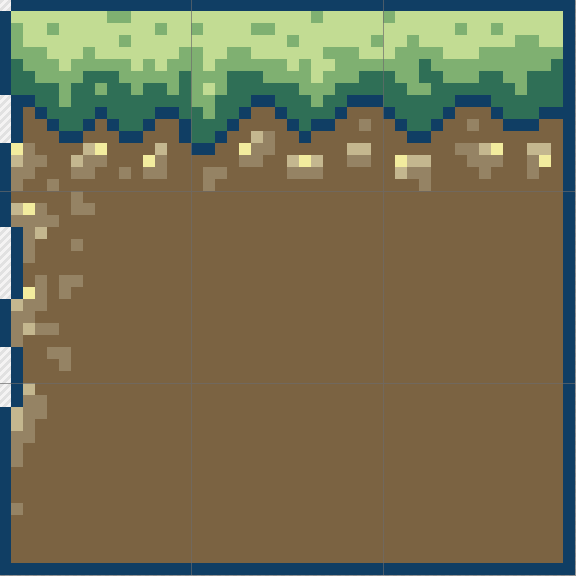
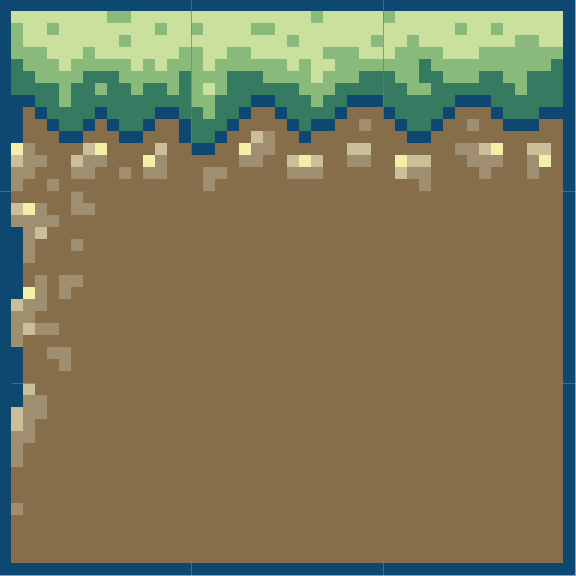
added camera, background, fixed images

diff --git a/main.py b/main.py
@@ -3,12 +3,16 @@ import Player
 # import Tile
 import Find
 import Box
+import Camera
 pygame.init()
 
 
-#rozmiary mapy wysokosc 800 szerokosc 1800
+#rozmiary mapy wysokosc 600 szerokosc 2400, kamera 600 x 800
+Tiles = []
 win = pygame.display.set_mode((800, 600))
 pygame.display.set_caption("Pierwsza gra")
+#make and display background in pygame from file
+
 x = 0
 y = 40
 szerokosc = 50
@@ -16,6 +20,7 @@ wysokosc = 50
 krok = 20
 run = True
 player = Player.Player(0,50)
+camera = Camera.Camera(player)
 rect1 = pygame.Rect(0,500,800,100)
 
 # lista zawierajaca znajdzki/monety
@@ -23,11 +28,14 @@ monets = [Find.Find(40, 450), Find.Find(150, 450), Find.Find(260, 450), Find.Fin
 
 # lista zawierajaca bloki
 blocks = [Box.Box(0+50*i, 500) for i in range(25)]
+for i in range(25):
+    blocks.append(Box.Box(0+50*i, 550))
 blocks.append(Box.Box(300, 450))
-blocks.append(Box.Box(250, 300))
+blocks.append(Box.Box(250, 350))
 while run:
-    # czyszczenie ekranu
-    win.fill((0, 0, 0))
+    background = pygame.image.load("assets/Background.png")
+    background = pygame.transform.scale(background, (800, 600))
+    win.blit(background, (0, 0))
     # zamkniecie gry
     for event in pygame.event.get():
         if event.type == pygame.QUIT:
@@ -37,11 +45,11 @@ while run:
 
     # dodawanie obiektow do mapy
     a = player.update(blocks)
-    win.blit(player.image, player.rect)
+   
     for moneta in monets:
-        win.blit(moneta.image, moneta.rect)
+        win.blit(moneta.image, (moneta.rect.x - camera.offset.x, moneta.rect.y - camera.offset.y))
     for block in blocks:
-        win.blit(block.image, block.rect)
+        win.blit(block.image, (block.rect.x - camera.offset.x, block.rect.y - camera.offset.y))
 
     # zbieranie monet
     for moneta in monets:
@@ -51,14 +59,13 @@ while run:
 
     # wyswietlacz punktow
     font = pygame.font.Font('freesansbold.ttf', 36)
-    points = font.render(str(player.points), True, (0, 255, 0), (0, 0, 128))
+    points = font.render(str(player.points), True, (0, 0, 0), None)
     pointsRect = points.get_rect()
     pointsRect.x=0
     pointsRect.y=0
+    camera.scroll()
+    win.blit(player.image, (player.rect.x-camera.offset.x, player.rect.y-camera.offset.y))
     win.blit(points, pointsRect)
-
-
-    # pygame.draw.rect(win, (0, 255, 0), (x, y, szerokosc, wysokosc))
 
     # odświeżenie ekranu
     pygame.display.update()

diff --git a/Camera.py b/Camera.py
@@ -1,0 +1,20 @@
+import pygame
+vec = pygame.math.Vector2
+
+class Camera():
+    def __init__(self,player):
+        self.player = player
+        self.offset = vec(0,0)
+        self.offset_float = vec(0,0)
+        self.DISPLAY_W = 800
+        self.DISPLAY_H = 600
+        self.LEFT_BORDER = 0
+        self.RIGHT_BORDER = 2400
+        self.CENTER = vec(-self.DISPLAY_W/2, -self.DISPLAY_H)
+    def scroll(self):
+        self.offset_float.x += (self.player.rect.x - self.offset_float.x + self.CENTER.x)
+        self.offset_float.x += (self.player.rect.y - self.offset_float.y + self.CENTER.y)
+        self.offset.x = int(self.offset_float.x)
+        self.offset.y = int(self.offset_float.y)
+        self.offset.x = max(self.LEFT_BORDER, self.offset.x)
+        self.offset.x = min(self.RIGHT_BORDER - self.DISPLAY_W, self.offset.x)

diff --git a/Player.py b/Player.py
@@ -6,7 +6,7 @@ class Player():
     def __init__(self, x, y):
         self.v_y = 0
         self.v_x = 0
-        img = pygame.image.load('assets/Super-Platformer-Royalty-Free-Game-Art-Set.png')
+        img = pygame.image.load('assets/player-right.png')
         self.image = pygame.transform.scale(img, (50,50))
         self.rect = self.image.get_rect()
         self.rect.x=x
@@ -26,8 +26,10 @@ class Player():
             self.jump=False
         if key[pygame.K_LEFT]:
             dx-=10
+            self.image = pygame.transform.scale(pygame.image.load('assets/player-left.png'), (50,50))
         if key[pygame.K_RIGHT]:
             dx+=10
+            self.image = pygame.transform.scale(pygame.image.load('assets/player-right.png'), (50,50))
 
         # grawitacja
         if self.v_y<=20:

diff --git a/Find.py b/Find.py
@@ -3,7 +3,7 @@ class Find:
     def __init__(self, x, y):
         self.points=5
         img = pygame.image.load('assets/png-clipart-platinum-design-bitcoin-bitcoin-platinum-coins-thumbnail.png')
-        self.image = pygame.transform.scale(img, (20, 20))
+        self.image = pygame.transform.scale(img, (50, 50))
         self.rect = self.image.get_rect()
         self.rect.x = x
         self.rect.y = y
